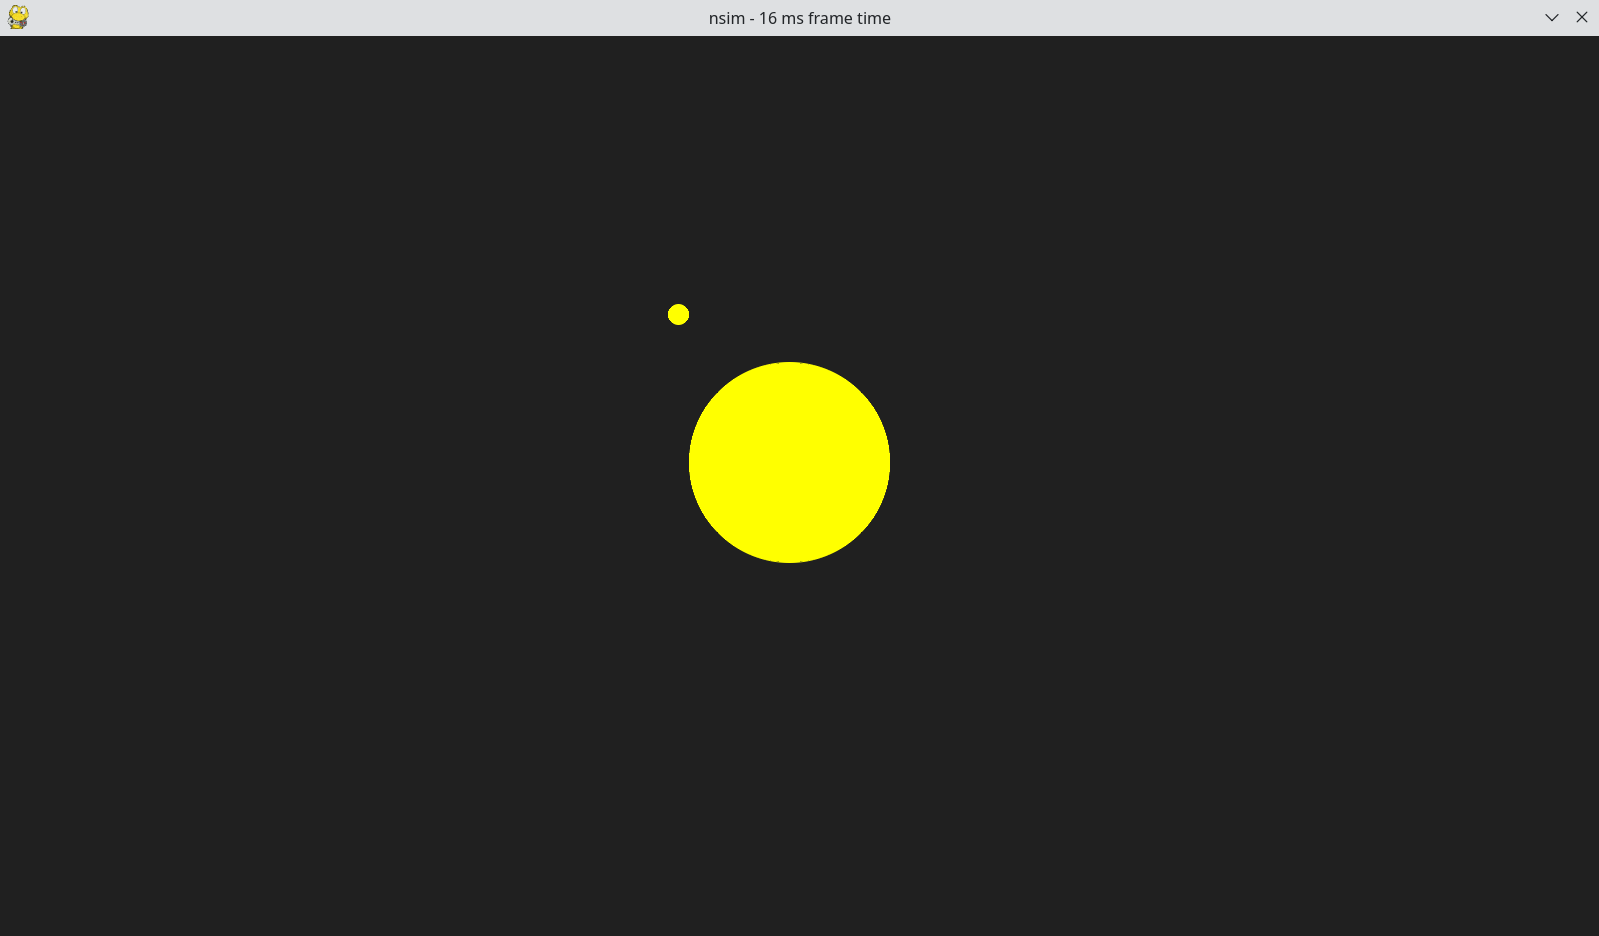
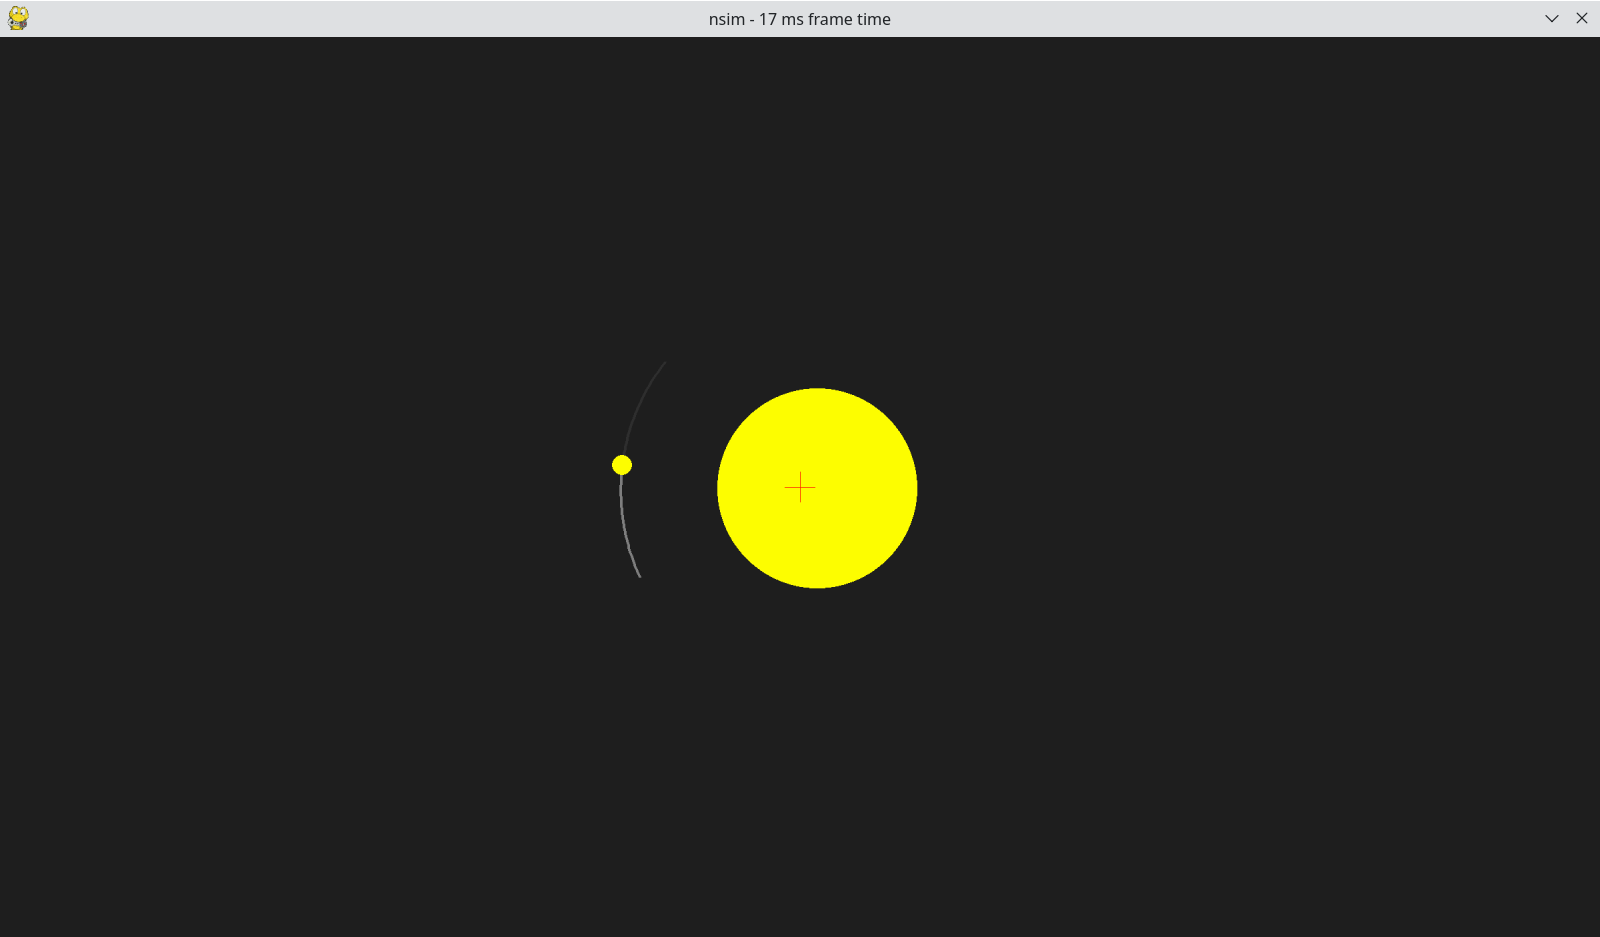
Show particles' future trajectories

diff --git a/display.py b/display.py
@@ -8,7 +8,8 @@ CROSSHAIR_COLOR = (255, 32, 0)
 CROSSHAIR_SIZE = 15
 CROSSHAIR_WIDTH = 1
 PARTICLE_COLOR = (255, 255, 0)
-PARTICLE_TRAIL_COLOR = (64, 64, 64)
+PARTICLE_TRAIL_COLOR = (128, 128, 128)
+PARTICLE_TRAJECTORY_COLOR = (48, 48, 48)
 PARTICLE_TRAIL_WIDTH = 3
 SSAA_FACTOR = 1.5
 
@@ -19,26 +20,27 @@ class Display:
         self.screen = pygame.display.set_mode(screen_size)
         self.set_ssaa_enabled(False)
         self.track_center_of_mass = True
-    
+
     def set_ssaa_enabled(self, enabled):
         self.ssaa_factor = SSAA_FACTOR if enabled else 1.0
         screen_size = self.screen.get_size()
-        surface_size = (screen_size[0] * self.ssaa_factor, screen_size[1] * self.ssaa_factor)
+        surface_size = (screen_size[0] * self.ssaa_factor,
+                        screen_size[1] * self.ssaa_factor)
         self.surface = pygame.Surface(surface_size)
-    
+
     def get_ssaa_enabled(self):
         return self.ssaa_factor > 1.0
-    
+
     def center_camera_on_center_of_mass(self, simulation, camera):
         center_of_screen = self.get_center_of_screen()
         camera.position = simulation.center_of_mass.copy()
         camera.position[0] -= center_of_screen[0] / camera.zoom_factor
         camera.position[1] -= center_of_screen[1] / camera.zoom_factor
-    
+
     def render(self, simulation, camera):
         if self.track_center_of_mass:
             self.center_camera_on_center_of_mass(simulation, camera)
-        
+
         # clear the render surface first with a background color
         self.surface.fill(BACKGROUND_COLOR)
 
@@ -47,19 +49,20 @@ class Display:
         particles_history = simulation.get_particles_history()
 
         for particle_id in particles.keys():
-            self.draw_particle_trail(particle_id, particles_history, camera)
+            self.draw_particle_trail(
+                particle_id, particles, particles_history, camera)
 
         for particle in particles.values():
             self.draw_particle(particle, camera)
-        
+
         if self.track_center_of_mass:
             self.draw_tracking_crosshair()
-        
+
         # copy render surface to the screen and update it
         pygame.transform.smoothscale(
             self.surface, self.screen.get_size(), self.screen)
         pygame.display.update()
-    
+
     def draw_particle(self, particle, camera):
         radius = math.ceil(particle.mass * camera.zoom_factor)
         position_on_screen = self.get_position_on_screen(
@@ -67,12 +70,16 @@ class Display:
 
         self.draw_circle(position_on_screen, radius, PARTICLE_COLOR)
 
-    def draw_particle_trail(self, particle_id, particles_history, camera):
+    def draw_particle_trail(self, particle_id, current_particles, particles_history, camera):
         future_screen_position = None
+        color = PARTICLE_TRAIL_COLOR
 
-        for snapshot in reversed(particles_history):
+        for snapshot in particles_history:
             if particle_id not in snapshot:
-                break  # history doesn't go any further back for this particle
+                break  # the end
+
+            if snapshot == current_particles:
+                color = PARTICLE_TRAJECTORY_COLOR
 
             particle = snapshot[particle_id]
             particle_screen_position = self.get_position_on_screen(
@@ -80,7 +87,7 @@ class Display:
 
             if future_screen_position:
                 self.draw_line(particle_screen_position,
-                               future_screen_position, PARTICLE_TRAIL_WIDTH, PARTICLE_TRAIL_COLOR)
+                               future_screen_position, PARTICLE_TRAIL_WIDTH, color)
 
             future_screen_position = particle_screen_position
 
@@ -96,12 +103,12 @@ class Display:
             draw_end = self.get_position_on_render_surface(end)
             pygame.draw.line(self.surface, color, draw_beginning,
                              draw_end, int(width * self.ssaa_factor))
-    
+
     def draw_tracking_crosshair(self):
         points = []
         for i in range(4):
             points.append(self.get_center_of_screen())
-        
+
         # horizontal line
         points[0][0] -= CROSSHAIR_SIZE
         points[1][0] += CROSSHAIR_SIZE
@@ -110,7 +117,7 @@ class Display:
         points[2][1] -= CROSSHAIR_SIZE
         points[3][1] += CROSSHAIR_SIZE
         self.draw_line(points[2], points[3], CROSSHAIR_WIDTH, CROSSHAIR_COLOR)
-    
+
     def get_position_on_screen(self, world_position, camera):
         position_offset = [world_position[0] - camera.position[0],
                            world_position[1] - camera.position[1]]
@@ -118,33 +125,33 @@ class Display:
 
     def get_position_on_render_surface(self, screen_position):
         return [int(screen_position[0] * self.ssaa_factor), int(screen_position[1] * self.ssaa_factor)]
-    
+
     def is_point_on_screen(self, point):
         screen_size = self.screen.get_size()
-        
+
         if point[0] < 0 or point[0] > screen_size[0]:
-            return False # out of horizontal boundaries
+            return False  # out of horizontal boundaries
         if point[1] < 0 or point[1] > screen_size[1]:
-            return False # out of vertical boundaries
-        
+            return False  # out of vertical boundaries
+
         return True
-    
+
     def is_circle_on_screen(self, position, radius):
         screen_size = self.screen.get_size()
         if position[0] + radius < 0 or position[0] - radius > screen_size[0]:
-            return False # out of horizontal boundaries
+            return False  # out of horizontal boundaries
         elif position[1] + radius < 0 or position[1] - radius > screen_size[1]:
-            return False # out of vertical boundaries
-        
+            return False  # out of vertical boundaries
+
         return True
-    
+
     def get_default_camera_position(self):
         # since the top left corner of the window is the (0, 0) coordinate point,
         # offset the default camera position by half the window size in the opposite
         # direction to center the (0, 0) coordinate point in the window center
         center_of_screen = self.get_center_of_screen()
         return [-center_of_screen[0], -center_of_screen[1]]
-    
+
     def get_center_of_screen(self):
         screen_size = self.screen.get_size()
         return [screen_size[0] / 2, screen_size[1] / 2]

diff --git a/models/simulation.py b/models/simulation.py
@@ -1,7 +1,7 @@
 from collections import deque
 from copy import deepcopy
 
-PARTICLES_HISTORY_DEPTH = 60
+PARTICLES_HISTORY_DEPTH = 100
 
 
 class Simulation:
@@ -13,6 +13,11 @@ class Simulation:
 
     def add_particle(self, particle):
         current_particles = self.get_current_timestep_particles()
+
+        # invalidate all calculated future timesteps
+        while self.particles_history[-1] != current_particles:
+            self.particles_history.pop()
+
         current_particles[self.particle_id_counter] = particle
         self.particle_id_counter += 1
 
@@ -20,20 +25,24 @@ class Simulation:
         return self.particles_history
 
     def get_current_timestep_particles(self):
-        return self.particles_history[-1]
+        index = int(len(self.particles_history) / 2)
+        return self.particles_history[index]
 
+    # advance the latest frame in the particles history list
     def advance(self, integrator, timestep):
         # make a copy of particles for this new timestep to keep the history intact
-        copy_of_particles = deepcopy(self.get_current_timestep_particles())
+        copy_of_particles = deepcopy(self.particles_history[-1])
         self.particles_history.append(copy_of_particles)
-
-        # only keep a certain amount of past snapshots in memory
-        if len(self.particles_history) > PARTICLES_HISTORY_DEPTH:
-            self.particles_history.popleft()
 
         integrator.integrate(copy_of_particles, timestep)
         self.update_center_of_mass()
-    
+
+        # keep a certain amount of past snapshots in memory
+        if len(self.particles_history) > PARTICLES_HISTORY_DEPTH:
+            self.particles_history.popleft()
+        else:
+            self.advance(integrator, timestep)
+
     def update_center_of_mass(self):
         # calculate a weighted average on each axis
         mass_sum = 0
@@ -42,5 +51,6 @@ class Simulation:
             mass_sum += particle.mass
             position_sum[0] += particle.position[0] * particle.mass
             position_sum[1] += particle.position[1] * particle.mass
-        
-        self.center_of_mass = [position_sum[0] / mass_sum, position_sum[1] / mass_sum]
+
+        self.center_of_mass = [position_sum[0] /
+                               mass_sum, position_sum[1] / mass_sum]
